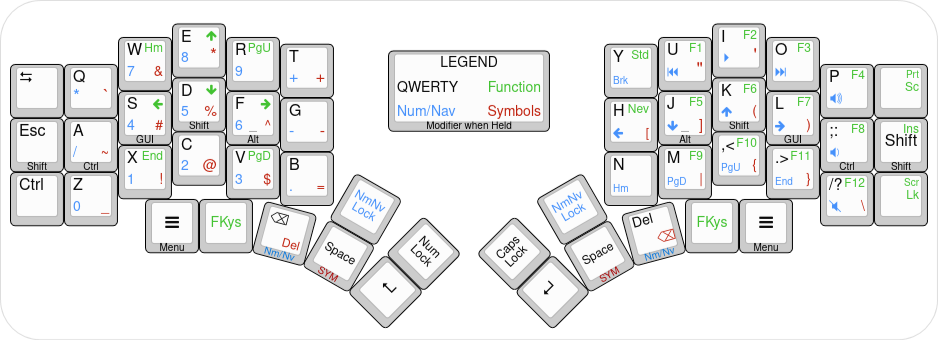
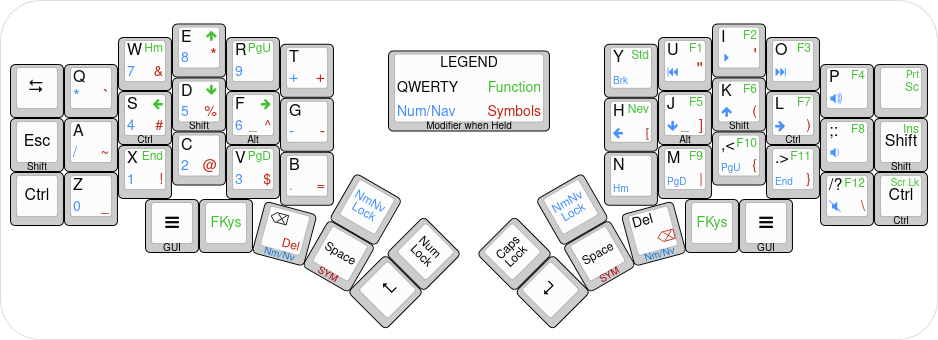
Change location of Ctrl and GUI keys.

diff --git a/keyboards/splitkb/kyria/keymaps/nevp/keymap.c b/keyboards/splitkb/kyria/keymaps/nevp/keymap.c
@@ -28,18 +28,19 @@ enum layers {
 
 // Aliases for readability
 #define QWERTY   DF(_QWERTY)
-#define QWTNEV  DF(_QWERTY_NEV)
+#define QWTNEV   DF(_QWERTY_NEV)
 
 #define SYMBOL   TT(_SYMBOL)
 #define NUMNAV   TG(_NUMNAV)
 #define FKEYS    MO(_FUNCTION)
 #define SYMNEV   TT(_SYMBOL_NEV)
 #define NUMNEV   TG(_NUMNAV_NEV)
-#define FKYNEV   MO(_FUNCTION)
+#define FKYNEV   MO(_FUNCTION_NEV)
 
 #define SFT_ESC MT(MOD_LSFT, KC_ESC)
 
 // For Thumb Cluster
+#define GUI_MNU MT(MOD_LGUI, KC_APP)
 #define NUM_DEL LT(_NUMNAV, KC_DEL)
 #define NUM_BSP LT(_NUMNAV, KC_BSPC)
 #define SYM_SPC LT(_SYMBOL, KC_SPC)
@@ -48,62 +49,56 @@ enum layers {
 #define SYM_S_N LT(_SYMBOL_NEV, KC_SPC)
 
 // For QWERTY layer
-#define CTL_A    MT(MOD_LCTL, KC_A)
-#define GUI_S    MT(MOD_LGUI, KC_S)
+#define CTL_S    MT(MOD_LCTL, KC_S)
 #define SFT_D    MT(MOD_LSFT, KC_D)
 #define ALT_F    MT(MOD_LALT, KC_F)
 #define ALT_J    MT(MOD_LALT, KC_J)
 #define SFT_K    MT(MOD_RSFT, KC_K)
-#define GUI_L    MT(MOD_RGUI, KC_L)
-#define CTL_SC   MT(MOD_RCTL, KC_SCLN)
+#define CTL_L    MT(MOD_RCTL, KC_L)
 
 // For QWERTY_NEV layer
 #define ALT_H    MT(MOD_LALT, KC_H)
 #define SFT_J    MT(MOD_RSFT, KC_J)
-#define GUI_K    MT(MOD_RGUI, KC_K)
-#define CTL_L    MT(MOD_RCTL, KC_L)
+#define CTL_K    MT(MOD_RCTL, KC_K)
 #define SFT_SC   MT(MOD_RSFT, KC_SCLN)
+#define CTL_SL   MT(MOD_RCTL, KC_SLSH)
 
 // For NUMNAV layer
-#define CTL_SLS  MT(MOD_LCTL, KC_PSLS)
-#define GUI_P4   MT(MOD_LGUI, KC_P4)
+#define CTL_P4   MT(MOD_LCTL, KC_P4)
 #define SFT_P5   MT(MOD_LSFT, KC_P5)
 #define ALT_P6   MT(MOD_LALT, KC_P6)
 #define ALT_DWN  MT(MOD_LALT, KC_DOWN)
 #define SFT_UP   MT(MOD_RSFT, KC_UP)
-#define GUI_RGT  MT(MOD_RGUI, KC_RGHT)
-#define CTL_VLD  MT(MOD_RCTL, KC_VOLD)
+#define CTL_RGT  MT(MOD_RCTL, KC_RGHT)
 
 // For NUMNAV_NEV layer
 #define ALT_LFT  MT(MOD_LALT, KC_LEFT)
 #define SFT_DWN  MT(MOD_RSFT, KC_DOWN)
-#define GUI_UP   MT(MOD_RGUI, KC_UP)
-#define CTL_RGT  MT(MOD_RCTL, KC_RGHT)
+#define CTL_UP   MT(MOD_RCTL, KC_UP)
 #define SFT_VLD  MT(MOD_RSFT, KC_VOLD)
 
 // For SYMBOL layer
-#define CTL_TLD  MT(MOD_LCTL, KC_TILD)
-#define GUI_HSH  MT(MOD_LGUI, KC_HASH)
+#define CTL_HSH  MT(MOD_LCTL, KC_HASH)
 #define SFT_PRC  MT(MOD_LSFT, KC_PERC)
 #define ALT_CRC  MT(MOD_LALT, KC_CIRC)
 #define ALT_RBR  MT(MOD_LALT, KC_RBRC)
 #define SFT_LPN  MT(MOD_LSFT, KC_LPRN)
-#define GUI_RPN  MT(MOD_RGUI, KC_RPRN)
+#define CTL_RPN  MT(MOD_RCTL, KC_RPRN)
 
 // For SYMBOL_NEV layer
 #define ALT_LBR  MT(MOD_LALT, KC_LBRC)
 #define SFT_RBR  MT(MOD_LSFT, KC_RBRC)
-#define GUI_LPN  MT(MOD_RGUI, KC_LPRN)
-#define CTL_RPN  MT(MOD_RCTL, KC_RPRN)
+#define CTL_LPN  MT(MOD_RCTL, KC_LPRN)
+#define CTL_BSL  MT(MOD_RCTL, KC_BSLS)
 
 // For FUNCTION layer
-#define GUI_LFT  MT(MOD_LGUI, KC_LEFT)
+#define CTL_LFT  MT(MOD_LCTL, KC_LEFT)
 #define ALT_RGT  MT(MOD_LALT, KC_RGHT)
 #define ALT_F5   MT(MOD_LALT, KC_F5)
 #define SFT_F6   MT(MOD_LSFT, KC_F6)
-#define GUI_F7   MT(MOD_RGUI, KC_F7)
-#define CTL_F8   MT(MOD_RCTL, KC_F8)
+#define CTL_F7   MT(MOD_RCTL, KC_F7)
 #define SFT_INS  MT(MOD_RSFT, KC_INS)
+#define CTL_SCL   MT(MOD_RCTL, KC_SCRL)
 
 // Note:
 // The notation `mod/tap` denotes a key that activates the modifier `mod` when held down, and
@@ -112,13 +107,7 @@ enum layers {
 // Intercepts non-basic keycodes for use with mod-tap.
 bool process_record_user(uint16_t keycode, keyrecord_t *record) {
     switch (keycode) {
-        case CTL_TLD:
-            if (record->tap.count && record->event.pressed) {
-                tap_code16(KC_TILD); // Send KC_TILD on tap
-                return false;        // Return false to ignore further processing of key
-            }
-            break;
-        case GUI_HSH:
+        case CTL_HSH:
             if (record->tap.count && record->event.pressed) {
                 tap_code16(KC_HASH); // Send KC_HASH on tap
                 return false;        // Return false to ignore further processing of key
@@ -136,15 +125,9 @@ bool process_record_user(uint16_t keycode, keyrecord_t *record) {
                 return false;        // Return false to ignore further processing of key
             }
             break;
-        case GUI_LPN:
+        case CTL_LPN:
             if (record->tap.count && record->event.pressed) {
                 tap_code16(KC_LPRN); // Send KC_LPRN on tap
-                return false;        // Return false to ignore further processing of key
-            }
-            break;
-        case CTL_RPN:
-            if (record->tap.count && record->event.pressed) {
-                tap_code16(KC_RPRN); // Send KC_RPRN on tap
                 return false;        // Return false to ignore further processing of key
             }
             break;
@@ -162,18 +145,18 @@ const uint16_t PROGMEM keymaps[][MATRIX_ROWS][MATRIX_COLS] = {
  * |--------+------+------+------+------+------|                              |------+------+------+------+------+------|
  * |Shft/Esc| GUI/A| Alt/S|Ctrl/D|Shft/F|   G  |                              |   H  | Alt/J|Shft/K| GUI/L|Ctl/;:| Shft |
  * |--------+------+------+------+------+------+-------------.  ,-------------+------+------+------+------+------+------|
- * |  CTRL  |   Z  |   X  |   C  |   V  |   B  |NumNav| NumLk|  |CapsLk|NumNav|   N  |   M  | ,  < | . >  | /  ? |      |
+ * |  CTRL  |   Z  |   X  |   C  |   V  |   B  |NumNav| NumLk|  |CapsLk|NumNav|   N  |   M  | ,  < | . >  | /  ? | CTRL |
  * |        |      |      |      |      |      | Lock |      |  |      | Lock |      |      |      |      |      |      |
  * `----------------------+------+------+------+------+------|  |------+------+------+------+------+--------------------'
- *                        | Menu |F-Keys|NUMNAV| SYM/ | Enter|  | Enter| SYM/ |NUMNAV|F-Keys| Menu |
- *                        |      |      |/BkSpc| Space|      |  |      | Space| /Del |      |      |
+ *                        | GUI/ |F-Keys|NUMNAV| SYM/ | Enter|  | Enter| SYM/ |NUMNAV|F-Keys| GUI/ |
+ *                        | Menu |      |/BkSpc| Space|      |  |      | Space| /Del |      | Menu |
  *                        `----------------------------------'  `----------------------------------'
  */
     [_QWERTY] = LAYOUT(
       KC_TAB,   KC_Q,   KC_W,   KC_E,   KC_R,   KC_T,                                      KC_Y,   KC_U,   KC_I,   KC_O,   KC_P,XXXXXXX,
-     SFT_ESC,  CTL_A,  GUI_S,  SFT_D,  ALT_F,   KC_G,                                      KC_H,  ALT_J,  SFT_K,  GUI_L, CTL_SC,KC_RSFT,
-     KC_LCTL,   KC_Z,   KC_X,   KC_C,   KC_V,   KC_B, NUMNAV, KC_NUM,    KC_CAPS,NUMNAV,   KC_N,   KC_M,KC_COMM, KC_DOT,KC_SLSH,XXXXXXX,
-                              KC_APP, FKYNEV,NUM_BSP,SYM_SPC, KC_ENT,    KC_ENT,SYM_SPC,NUM_DEL, FKYNEV, KC_APP
+     SFT_ESC,   KC_A,  CTL_S,  SFT_D,  ALT_F,   KC_G,                                      KC_H,  ALT_J,  SFT_K,  CTL_L,KC_SCLN,KC_RSFT,
+     KC_LCTL,   KC_Z,   KC_X,   KC_C,   KC_V,   KC_B, NUMNAV, KC_NUM,    KC_CAPS,NUMNAV,   KC_N,   KC_M,KC_COMM, KC_DOT,KC_SLSH,KC_RCTL,
+                            GUI_MNU, FKYNEV,NUM_BSP,SYM_SPC, KC_ENT,    KC_ENT,SYM_SPC,NUM_DEL, FKYNEV,GUI_MNU
     ),
 
 /*
@@ -184,18 +167,18 @@ const uint16_t PROGMEM keymaps[][MATRIX_ROWS][MATRIX_COLS] = {
  * |--------+------+------+------+------+------|                              |------+------+------+------+------+------|
  * |Shft/Esc| GUI/A| Alt/S|Ctrl/D|Shft/F|   G  |                              |      | Alt/H|Shft/J| GUI/K|Ctrl/L|Sft/;:|
  * |--------+------+------+------+------+------+-------------.  ,-------------+------+------+------+------+------+------|
- * |  CTRL  |   Z  |   X  |   C  |   V  |   B  |NumNav| NumLk|  |CapsLk|NumNav|      |   N  |   M  | ,  < | . >  | /  ? |
- * |        |      |      |      |      |      | Lock |      |  |      | Lock |      |      |      |      |      |      |
+ * |  CTRL  |   Z  |   X  |   C  |   V  |   B  |NumNav| NumLk|  |CapsLk|NumNav|      |   N  |   M  | ,  < | . >  | / ?  |
+ * |        |      |      |      |      |      | Lock |      |  |      | Lock |      |      |      |      |      |/CTRL |
  * `----------------------+------+------+------+------+------|  |------+------+------+------+------+--------------------'
- *                        | Menu |F-Keys|NUMNAV| SYM/ | Enter|  | Enter| SYM/ |NUMNAV|F-Keys| Menu |
- *                        |      |      |/BkSpc| Space|      |  |      | Space| /Del |      |      |
+ *                        | GUI/ |F-Keys|NUMNAV| SYM/ | Enter|  | Enter| SYM/ |NUMNAV|F-Keys| GUI/ |
+ *                        | Menu |      |/BkSpc| Space|      |  |      | Space| /Del |      | Menu |
  *                        `----------------------------------'  `----------------------------------'
  */
     [_QWERTY_NEV] = LAYOUT(
       KC_TAB,   KC_Q,   KC_W,   KC_E,   KC_R,   KC_T,                                   XXXXXXX,   KC_Y,   KC_U,   KC_I,   KC_O,   KC_P,
-     SFT_ESC,  CTL_A,  GUI_S,  SFT_D,  ALT_F,   KC_G,                                   XXXXXXX,  ALT_H,  SFT_J,  GUI_K,  CTL_L, SFT_SC,
-     KC_LCTL,   KC_Z,   KC_X,   KC_C,   KC_V,   KC_B, NUMNAV, KC_NUM,    KC_CAPS,NUMNAV,XXXXXXX,   KC_N,   KC_M,KC_COMM, KC_DOT,KC_SLSH,
-                              KC_APP,  FKEYS,NUM_B_N,SYM_S_N, KC_ENT,    KC_ENT,SYM_S_N,NUM_D_N,  FKEYS, KC_APP
+     SFT_ESC,   KC_A,  CTL_S,  SFT_D,  ALT_F,   KC_G,                                   XXXXXXX,  ALT_H,  SFT_J,  CTL_K,   KC_L, SFT_SC,
+     KC_LCTL,   KC_Z,   KC_X,   KC_C,   KC_V,   KC_B, NUMNAV, KC_NUM,    KC_CAPS,NUMNAV,XXXXXXX,   KC_N,   KC_M,KC_COMM, KC_DOT, CTL_SL,
+                            GUI_MNU,  FKEYS,NUM_B_N,SYM_S_N, KC_ENT,    KC_ENT,SYM_S_N,NUM_D_N,  FKEYS,GUI_MNU
     ),
 
 /*
@@ -214,7 +197,7 @@ const uint16_t PROGMEM keymaps[][MATRIX_ROWS][MATRIX_COLS] = {
  */
     [_NUMNAV] = LAYOUT(
      _______,KC_PAST,  KC_P7,  KC_P8,  KC_P9,KC_PPLS,                                   KC_BRK ,KC_MPRV,KC_MPLY,KC_MNXT,KC_VOLU,_______,
-     _______,CTL_SLS, GUI_P4, SFT_P5, ALT_P6,KC_PMNS,                                   KC_LEFT,ALT_DWN, SFT_UP,GUI_RGT,CTL_VLD,_______,
+     _______,KC_PSLS, CTL_P4, SFT_P5, ALT_P6,KC_PMNS,                                   KC_LEFT,ALT_DWN, SFT_UP,CTL_RGT,KC_VOLD,_______,
      _______,  KC_P0,  KC_P1,  KC_P2,  KC_P3,KC_PDOT,_______,_______,   _______,_______,KC_HOME,KC_PGDN,KC_PGUP, KC_END,KC_MUTE,_______,
                              _______,_______,_______,_______,_______,   _______,_______,_______,_______,_______
     ),
@@ -235,7 +218,7 @@ const uint16_t PROGMEM keymaps[][MATRIX_ROWS][MATRIX_COLS] = {
  */
     [_NUMNAV_NEV] = LAYOUT(
      _______,KC_PAST,  KC_P7,  KC_P8,  KC_P9,KC_PPLS,                                   _______,KC_BRK ,KC_MPRV,KC_MPLY,KC_MNXT,KC_VOLU,
-     _______,CTL_SLS, GUI_P4, SFT_P5, ALT_P6,KC_PMNS,                                   _______,ALT_LFT,SFT_DWN, GUI_UP,CTL_RGT,SFT_VLD,
+     _______,KC_PSLS, CTL_P4, SFT_P5, ALT_P6,KC_PMNS,                                   _______,ALT_LFT,SFT_DWN, CTL_UP,KC_RGHT,SFT_VLD,
      _______,  KC_P0,  KC_P1,  KC_P2,  KC_P3,KC_PDOT,_______,_______,   _______,_______,_______,KC_HOME,KC_PGDN,KC_PGUP, KC_END,KC_MUTE,
                              _______,_______,_______,_______,_______,   _______,_______,_______,_______,_______
     ),
@@ -256,7 +239,7 @@ const uint16_t PROGMEM keymaps[][MATRIX_ROWS][MATRIX_COLS] = {
  */
     [_SYMBOL] = LAYOUT(
      _______, KC_GRV,KC_AMPR,KC_ASTR,XXXXXXX,KC_PLUS,                                   XXXXXXX,KC_DQUO,KC_QUOT,XXXXXXX,XXXXXXX,_______,
-     _______,CTL_TLD,GUI_HSH,SFT_PRC,ALT_CRC,KC_MINS,                                   KC_LBRC,ALT_RBR,SFT_LPN,GUI_RPN,KC_RCTL,_______,
+     _______,KC_TILD,CTL_HSH,SFT_PRC,ALT_CRC,KC_MINS,                                   KC_LBRC,ALT_RBR,SFT_LPN,CTL_RPN,XXXXXXX,_______,
      _______,KC_UNDS,KC_EXLM, KC_AT , KC_DLR, KC_EQL,_______,_______,   _______,_______,XXXXXXX,KC_PIPE,KC_LCBR,KC_RCBR,KC_BSLS,_______,
                              _______,_______,NUM_DEL,_______,_______,   _______,_______,NUM_BSP,_______,_______
    ),
@@ -277,8 +260,8 @@ const uint16_t PROGMEM keymaps[][MATRIX_ROWS][MATRIX_COLS] = {
  */
     [_SYMBOL_NEV] = LAYOUT(
      _______, KC_GRV,KC_AMPR,KC_ASTR,XXXXXXX,KC_PLUS,                                   _______,XXXXXXX,KC_DQUO,KC_QUOT,XXXXXXX,XXXXXXX,
-     _______,CTL_TLD,GUI_HSH,SFT_PRC,ALT_CRC,KC_MINS,                                   _______,ALT_LBR,SFT_RBR,GUI_LPN,CTL_RPN,KC_RSFT,
-     _______,KC_UNDS,KC_EXLM, KC_AT , KC_DLR, KC_EQL,_______,_______,   _______,_______,_______,XXXXXXX,KC_PIPE,KC_LCBR,KC_RCBR,KC_BSLS,
+     _______,KC_TILD,CTL_HSH,SFT_PRC,ALT_CRC,KC_MINS,                                   _______,ALT_LBR,SFT_RBR,CTL_LPN,KC_RPRN,KC_RSFT,
+     _______,KC_UNDS,KC_EXLM, KC_AT , KC_DLR, KC_EQL,_______,_______,   _______,_______,_______,XXXXXXX,KC_PIPE,KC_LCBR,KC_RCBR,CTL_BSL,
                              _______,_______,NUM_D_N,_______,_______,   _______,_______,NUM_B_N,_______,_______
    ),
 
@@ -297,15 +280,15 @@ const uint16_t PROGMEM keymaps[][MATRIX_ROWS][MATRIX_COLS] = {
  */
     [_FUNCTION] = LAYOUT(
      _______,XXXXXXX,KC_HOME,  KC_UP,KC_PGUP,XXXXXXX,                                    QWERTY,  KC_F1,  KC_F2,  KC_F3,  KC_F4,KC_PSCR,
-     _______,KC_LCTL,GUI_LFT,SFT_DWN,ALT_RGT,XXXXXXX,                                    QWTNEV, ALT_F5, SFT_F6, GUI_F7, CTL_F8,SFT_INS,
-     _______,XXXXXXX, KC_END,XXXXXXX,KC_PGDN,XXXXXXX,_______,_______,   _______,_______,_______,  KC_F9, KC_F10, KC_F11, KC_F12,KC_SCRL,
+     _______,KC_LCTL,CTL_LFT,SFT_DWN,ALT_RGT,XXXXXXX,                                    QWTNEV, ALT_F5, SFT_F6, CTL_F7,  KC_F8,SFT_INS,
+     _______,XXXXXXX, KC_END,XXXXXXX,KC_PGDN,XXXXXXX,_______,_______,   _______,_______,_______,  KC_F9, KC_F10, KC_F11, KC_F12,CTL_SCL,
                              _______,_______,_______,_______,_______,   _______,_______,_______,_______,_______
     ),
 
     [_FUNCTION_NEV] = LAYOUT(
      _______,XXXXXXX,KC_HOME,  KC_UP,KC_PGUP,XXXXXXX,                                    QWERTY,  KC_F1,  KC_F2,  KC_F3,  KC_F4,KC_PSCR,
-     _______,KC_LCTL,GUI_LFT,SFT_DWN,ALT_RGT,XXXXXXX,                                    QWTNEV, ALT_F5, SFT_F6, GUI_F7, CTL_F8,SFT_INS,
-     _______,XXXXXXX, KC_END,XXXXXXX,KC_PGDN,XXXXXXX,_______,_______,   _______,_______,_______,  KC_F9, KC_F10, KC_F11, KC_F12,KC_SCRL,
+     _______,KC_LCTL,CTL_LFT,SFT_DWN,ALT_RGT,XXXXXXX,                                    QWTNEV, ALT_F5, SFT_F6, CTL_F7,  KC_F8,SFT_INS,
+     _______,XXXXXXX, KC_END,XXXXXXX,KC_PGDN,XXXXXXX,_______,_______,   _______,_______,_______,  KC_F9, KC_F10, KC_F11, KC_F12,CTL_SCL,
                              _______,_______,_______,_______,_______,   _______,_______,_______,_______,_______
     ),
 
@@ -372,10 +355,6 @@ layer_state_t layer_state_set_user(layer_state_t layer_state) {
             case _SYMBOL_NEV:
                 gpio_write_pin_low(D0);
                 gpio_write_pin_low(D1);
-                break;
-            case _FUNCTION_NEV:
-                gpio_write_pin_low(D0);
-                gpio_write_pin_high(D1);
                 break;
             default:
                 gpio_write_pin_low(D0);

diff --git a/keyboards/splitkb/kyria/keymaps/nevp/config.h b/keyboards/splitkb/kyria/keymaps/nevp/config.h
@@ -31,8 +31,9 @@
 #define MASTER_LEFT
 
 #define TAPPING_TOGGLE 2
-#define TAPPING_TERM 300
-#define PERMISSIVE_HOLD
+#define TAPPING_TERM 200
+#define HOLD_ON_OTHER_KEY_PRESS
+// #define PERMISSIVE_HOLD
 
 #define SPLIT_LAYER_STATE_ENABLE
 #define SPLIT_LED_STATE_ENABLE

diff --git a/keyboards/splitkb/kyria/keymaps/nevp/readme.md b/keyboards/splitkb/kyria/keymaps/nevp/readme.md
@@ -1,5 +1,11 @@
 # Nev's Kyria Keymap
 
+## Standard QWERTY Layout
+
+![KLE render of the default Kyria keymap with QWERTY as the base layer. Layers are shown in sublegends.](./kyria-qwerty-nevp-std.png)
+
+## Nev's modified QWERTY Layout
+
 ![KLE render of the default Kyria keymap with QWERTY as the base layer. Layers are shown in sublegends.](./kyria-qwerty-nevp-shiftright.png)
 
 The default keymap contains 6 layers which allows it to include all keys found on an ANSI layout TKL keyboard plus media keys.
